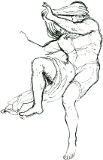
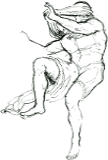
fix

diff --git a/css/style.css b/css/style.css
@@ -143,7 +143,7 @@ article {
 }
 
 article#default {
-    background: url('/images/bernini1.png') left top no-repeat;/*, url('/images/bernini2.png') 200px top no-repeat;*/
+    background: url('/images/bernini1.png') left top repeat-x;/*, url('/images/bernini2.png') 200px top no-repeat;*/
     height: 180px;
     width: 540px;
     -webkit-animation: fadeIn 0s;
